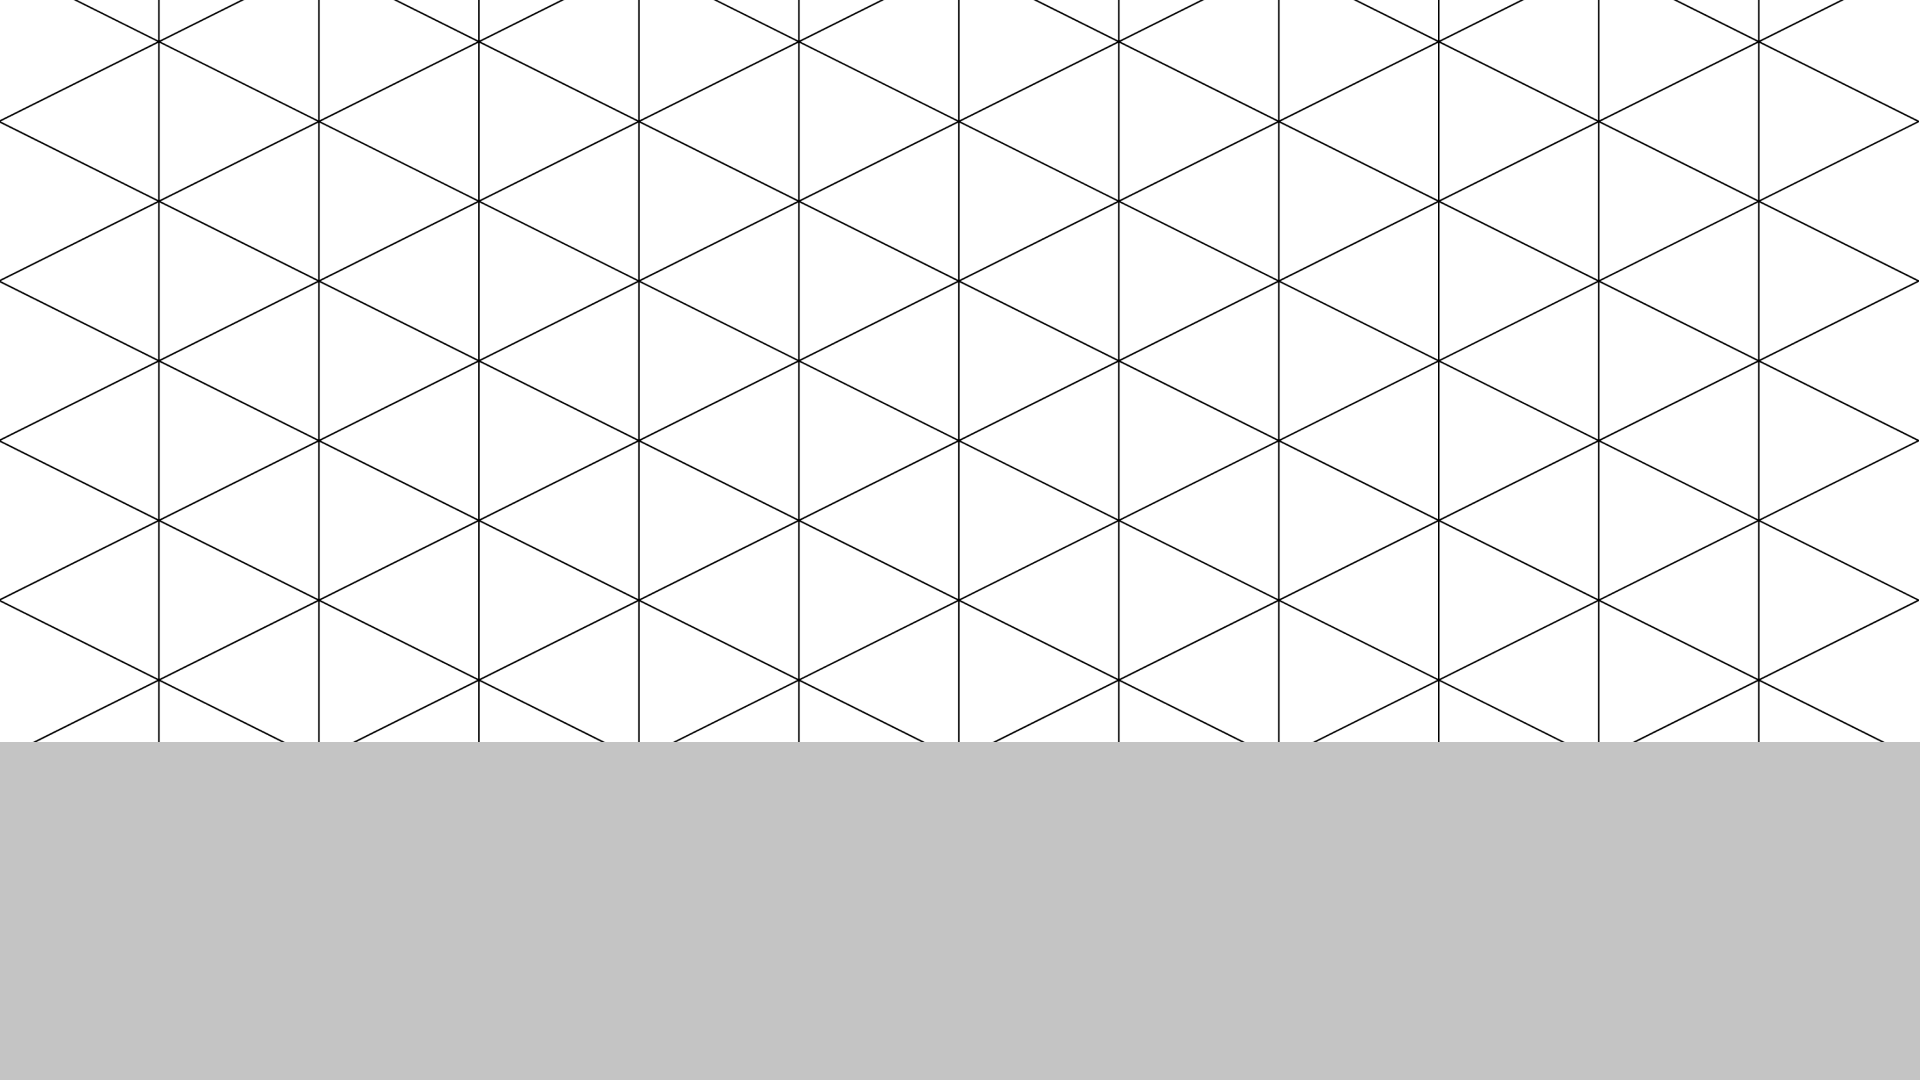
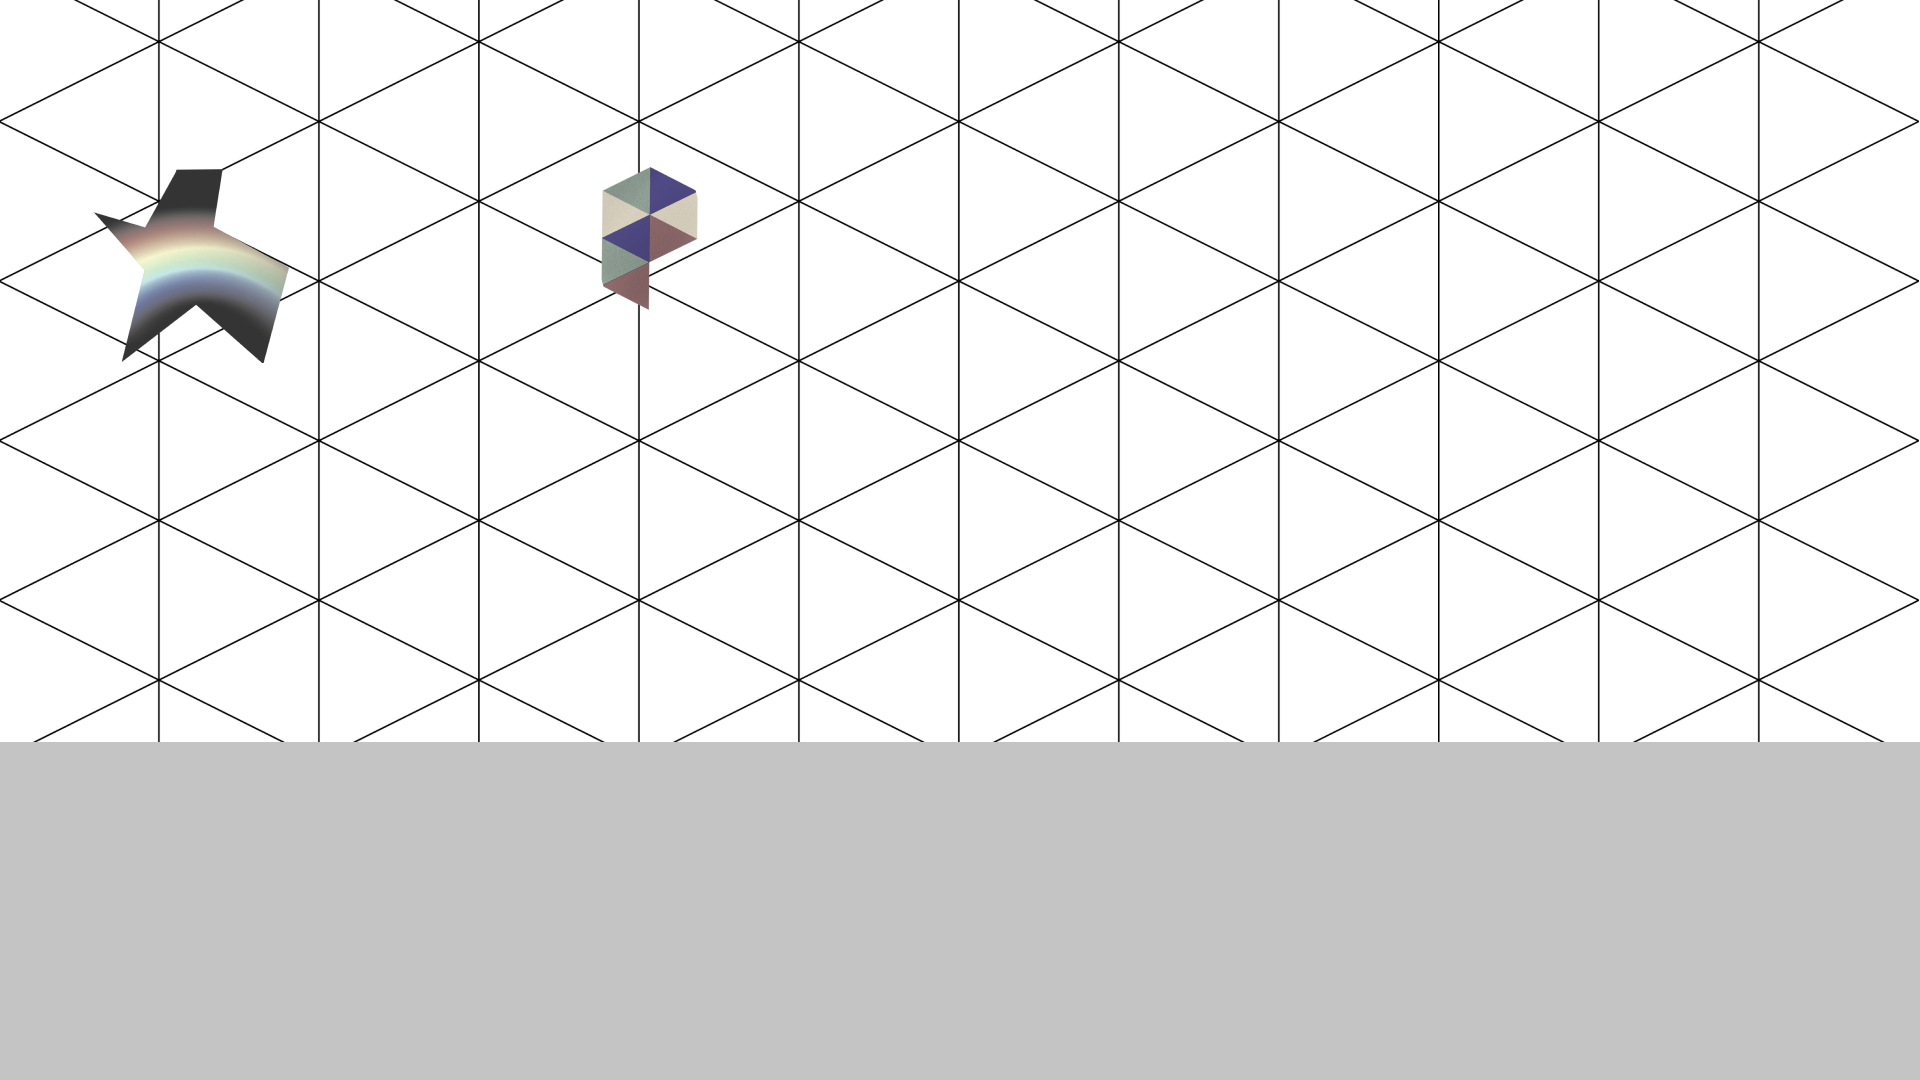
Second screen

Changed region(s): [[0.0312, 0.1528, 0.1562, 0.3361], [0.3125, 0.1528, 0.375, 0.275]]

diff --git a/stylesheets/content.css b/stylesheets/content.css
@@ -60,4 +60,65 @@
 .background2 {
   width: 100%;
   position: absolute;
+  z-index: 1;
+}
+
+.desk {
+  width: 35vw;
+  position: absolute;
+  margin-top: 27%;
+  margin-left: 15%;
+  z-index: 3;
+}
+
+.deskImg {
+  width: 35vw;
+}
+
+.receptionLady {
+  width: 10vw;
+  position: absolute;
+  margin-top: 22%;
+  margin-left: 36%;
+  z-index: 2;
+}
+
+.receptionLadyImg {
+  width: 10vw;
+}
+
+.box1 {
+  width: 8vw;
+  position: absolute;
+  margin-top: 29%;
+  margin-left: 58%;
+  z-index: 2;
+}
+
+.box1Img {
+  width: 8vw;
+}
+
+.octopus {
+  width: 10vw;
+  position: absolute;
+  margin-top: 22%;
+  margin-left: 57%;
+  z-index: 3;
+}
+
+.octopusImg {
+  width: 10vw;
+}
+
+.door {
+  width: 13vw;
+  position: absolute;
+  margin-top: 11.2%;
+  margin-left: 78.7%;
+  z-index: 3;
+}
+
+.doorImg {
+  width: 13vw;
 }

diff --git a/index.html b/index.html
@@ -23,6 +23,11 @@
     </section>
     <section class="reception">
       <img src="img/background2.png" alt="background" class="background2">
+      <div class="desk"><img src="img/deskMac.png" alt="desk" class="deskImg"></div>
+      <div class="receptionLady"><img src="img/receptionLady.png" alt="lady" class="receptionLadyImg"></div>
+      <div class="box1"><img src="img/box1.svg" alt="box" class="box1Img"></div>
+      <div class="octopus"><img src="img/octopus.svg" alt="octopus" class="octopusImg"></div>
+      <div class="door"><img src="img/door.png" alt="door" class="doorImg"></div>
     </section>
   </body>
 </html>
